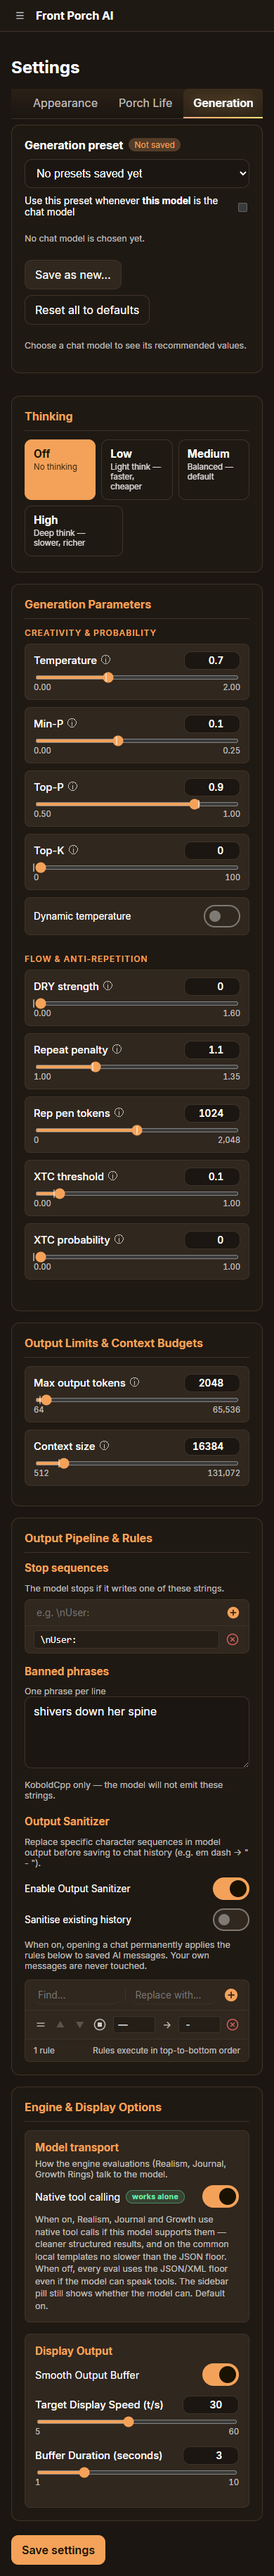
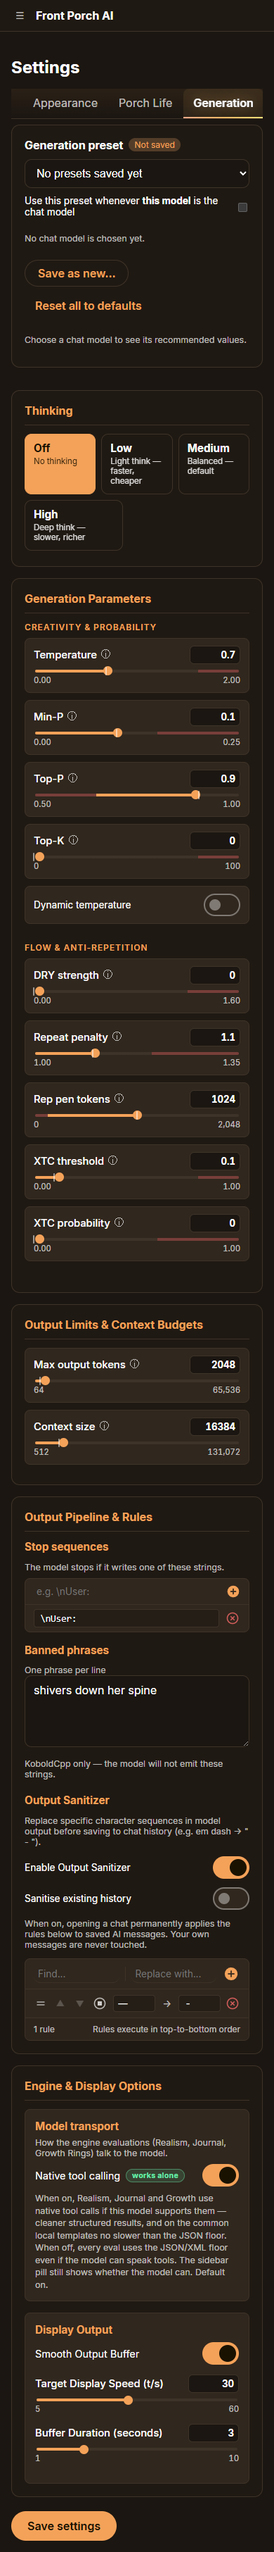
fix(generation): equal-height Thinking chips, StudioSlider range tracks, pill buttons

diff --git a/lib/ui/settings/widgets/thinking_strength_control.dart b/lib/ui/settings/widgets/thinking_strength_control.dart
@@ -56,11 +56,10 @@ class ThinkingStrengthControl extends StatelessWidget {
     final chips = reasoningEffortChipsFor(modelId);
     final withOff = onTurnOff != null;
     final off = withOff && thinkingOn == false;
-    final selected =
-        off ? '' : reasoningEffortDisplayedSelection(modelId, value);
-    final caption = off
+    final selected = off
         ? ''
-        : reasoningEffortMappingCaption(modelId, selected);
+        : reasoningEffortDisplayedSelection(modelId, value);
+    final caption = off ? '' : reasoningEffortMappingCaption(modelId, selected);
 
     return Column(
       crossAxisAlignment: CrossAxisAlignment.start,
@@ -81,43 +80,59 @@ class ThinkingStrengthControl extends StatelessWidget {
         LayoutBuilder(
           builder: (context, constraints) {
             final wide = constraints.maxWidth >= 360;
-            return Wrap(
-              spacing: 8,
-              runSpacing: 8,
-              children: [
-                if (withOff)
-                  _StrengthChip(
-                    id: 'off',
-                    title: 'Off',
-                    blurb: 'No thinking',
-                    selected: off,
-                    accent: accent,
-                    wide: wide && chips.length <= 4,
-                    onTap: offDisabled ? null : onTurnOff,
-                  ),
-                for (final id in chips)
-                  _StrengthChip(
-                    id: id,
-                    selected: selected == id,
-                    accent: accent,
-                    wide: wide && chips.length <= 4,
-                    onTap: () {
-                      if (withOff && off) onTurnOn?.call();
-                      onChanged(id);
-                    },
-                  ),
-                if (withOff && chips.isEmpty)
-                  _StrengthChip(
-                    id: 'on',
-                    title: 'On',
-                    blurb: 'Think before replying',
-                    selected: !off,
-                    accent: accent,
-                    wide: wide,
-                    onTap: off ? onTurnOn : null,
-                  ),
-              ],
-            );
+            final chipList = <Widget>[
+              if (withOff)
+                _StrengthChip(
+                  id: 'off',
+                  title: 'Off',
+                  blurb: 'No thinking',
+                  selected: off,
+                  accent: accent,
+                  wide: wide && chips.length <= 4,
+                  onTap: offDisabled ? null : onTurnOff,
+                ),
+              for (final id in chips)
+                _StrengthChip(
+                  id: id,
+                  selected: selected == id,
+                  accent: accent,
+                  wide: wide && chips.length <= 4,
+                  onTap: () {
+                    if (withOff && off) onTurnOn?.call();
+                    onChanged(id);
+                  },
+                ),
+              if (withOff && chips.isEmpty)
+                _StrengthChip(
+                  id: 'on',
+                  title: 'On',
+                  blurb: 'Think before replying',
+                  selected: !off,
+                  accent: accent,
+                  wide: wide,
+                  onTap: off ? onTurnOn : null,
+                ),
+            ];
+            final fitsRow =
+                wide &&
+                chipList.length <= 5 &&
+                constraints.maxWidth >=
+                    chipList.length * 112 + (chipList.length - 1) * 8;
+            if (fitsRow) {
+              return IntrinsicHeight(
+                child: Row(
+                  mainAxisSize: MainAxisSize.min,
+                  crossAxisAlignment: CrossAxisAlignment.stretch,
+                  children: [
+                    for (var i = 0; i < chipList.length; i++) ...[
+                      if (i > 0) const SizedBox(width: 8),
+                      chipList[i],
+                    ],
+                  ],
+                ),
+              );
+            }
+            return Wrap(spacing: 8, runSpacing: 8, children: chipList);
           },
         ),
         SizedBox(height: compact ? 8 : 10),
@@ -169,7 +184,7 @@ class _StrengthChip extends StatelessWidget {
         borderRadius: BorderRadius.circular(10),
         child: Container(
           width: wide ? 112 : null,
-          constraints: const BoxConstraints(minWidth: 88),
+          constraints: const BoxConstraints(minWidth: 88, minHeight: 68),
           padding: const EdgeInsets.symmetric(horizontal: 12, vertical: 10),
           decoration: BoxDecoration(
             borderRadius: BorderRadius.circular(10),

diff --git a/web_ui/src/styles/settings.css b/web_ui/src/styles/settings.css
@@ -115,8 +115,14 @@
 }
 .slider-label { display: inline-flex; align-items: center; gap: 4px; }
 .slider-val {
-  width: 80px; text-align: right; padding: 4px 8px; font-size: 0.85rem;
-  font-variant-numeric: tabular-nums; font-family: inherit; font-weight: 600;
+  width: 72px; text-align: right; padding: 4px 6px; font-size: 0.82rem;
+  font-variant-numeric: tabular-nums; font-family: inherit; font-weight: 700;
+  border-radius: 6px;
+  appearance: textfield; -moz-appearance: textfield;
+}
+.slider-val::-webkit-outer-spin-button,
+.slider-val::-webkit-inner-spin-button {
+  -webkit-appearance: none; margin: 0;
 }
 .slider-track-wrap {
   position: relative;
@@ -125,8 +131,24 @@
   align-items: center;
 }
 .slider-field input[type='range'] {
-  width: 100%; height: 6px; accent-color: var(--accent); cursor: pointer; padding: 0;
-  border-radius: 3px; background: var(--border); border: none;
+  -webkit-appearance: none; appearance: none;
+  width: 100%; height: 4px; cursor: pointer; padding: 0;
+  border-radius: 2px; background: var(--border); border: none;
+}
+.slider-field input[type='range']::-webkit-slider-thumb {
+  -webkit-appearance: none; appearance: none;
+  width: 13px; height: 13px; border-radius: 50%;
+  background: var(--accent); border: none; cursor: pointer;
+}
+.slider-field input[type='range'].in-danger::-webkit-slider-thumb {
+  background: var(--danger);
+}
+.slider-field input[type='range']::-moz-range-thumb {
+  width: 13px; height: 13px; border-radius: 50%;
+  background: var(--accent); border: none; cursor: pointer;
+}
+.slider-field input[type='range'].in-danger::-moz-range-thumb {
+  background: var(--danger);
 }
 .slider-field input:disabled { opacity: 0.45; cursor: not-allowed; }
 .slider-default-pip {
@@ -692,6 +714,21 @@ input.switch:disabled { opacity: 0.5; cursor: default; }
   input.switch { border-width: 6px; margin: -6px; border-radius: 22px; }
 }
 .settings-save { margin-top: 20px; display: flex; flex-wrap: wrap; gap: 12px; align-items: flex-start; }
+.settings-save button.primary {
+  border-radius: 999px; padding: 10px 22px;
+}
+.gp-buttons button:not(.primary):not(.ghost) {
+  border-radius: 999px; background: transparent;
+  border: 1px solid var(--border); color: var(--porch-amber);
+  font-weight: 600; padding: 8px 18px;
+}
+.gp-buttons button.ghost {
+  border-radius: 999px; border-color: transparent;
+  color: var(--porch-amber); font-weight: 600; padding: 8px 14px;
+}
+.gp-buttons button.primary {
+  border-radius: 999px; padding: 8px 18px;
+}
 .settings-save .step-up { flex: 1 1 320px; }
 .settings-save .primary:hover:not(:disabled) {
   box-shadow: 0 4px 18px color-mix(in srgb, var(--porch-amber) 35%, transparent);

diff --git a/web_ui/src/components/StudioSliderField.tsx b/web_ui/src/components/StudioSliderField.tsx
@@ -74,6 +74,11 @@ export function SliderField({
   const dMinPct = dangerMin !== undefined ? clampPct(dangerMin, min, max) : undefined;
   const defaultPct = defaultVal !== undefined ? clampPct(defaultVal, min, max) : undefined;
   const trackGradient = buildTrackGradient(valPct, dMinPct, dMaxPct);
+  const inDanger =
+    (dangerMax !== undefined && value > dangerMax) ||
+    (dangerMin !== undefined && value < dangerMin) ||
+    value > max ||
+    value < min;
 
   const field = (
     <div className="slider-field">
@@ -122,6 +127,7 @@ export function SliderField({
       <div className="slider-track-wrap">
         <input
           type="range"
+          className={inDanger ? 'in-danger' : undefined}
           value={Math.max(min, Math.min(max, value))}
           step={step}
           min={min}
